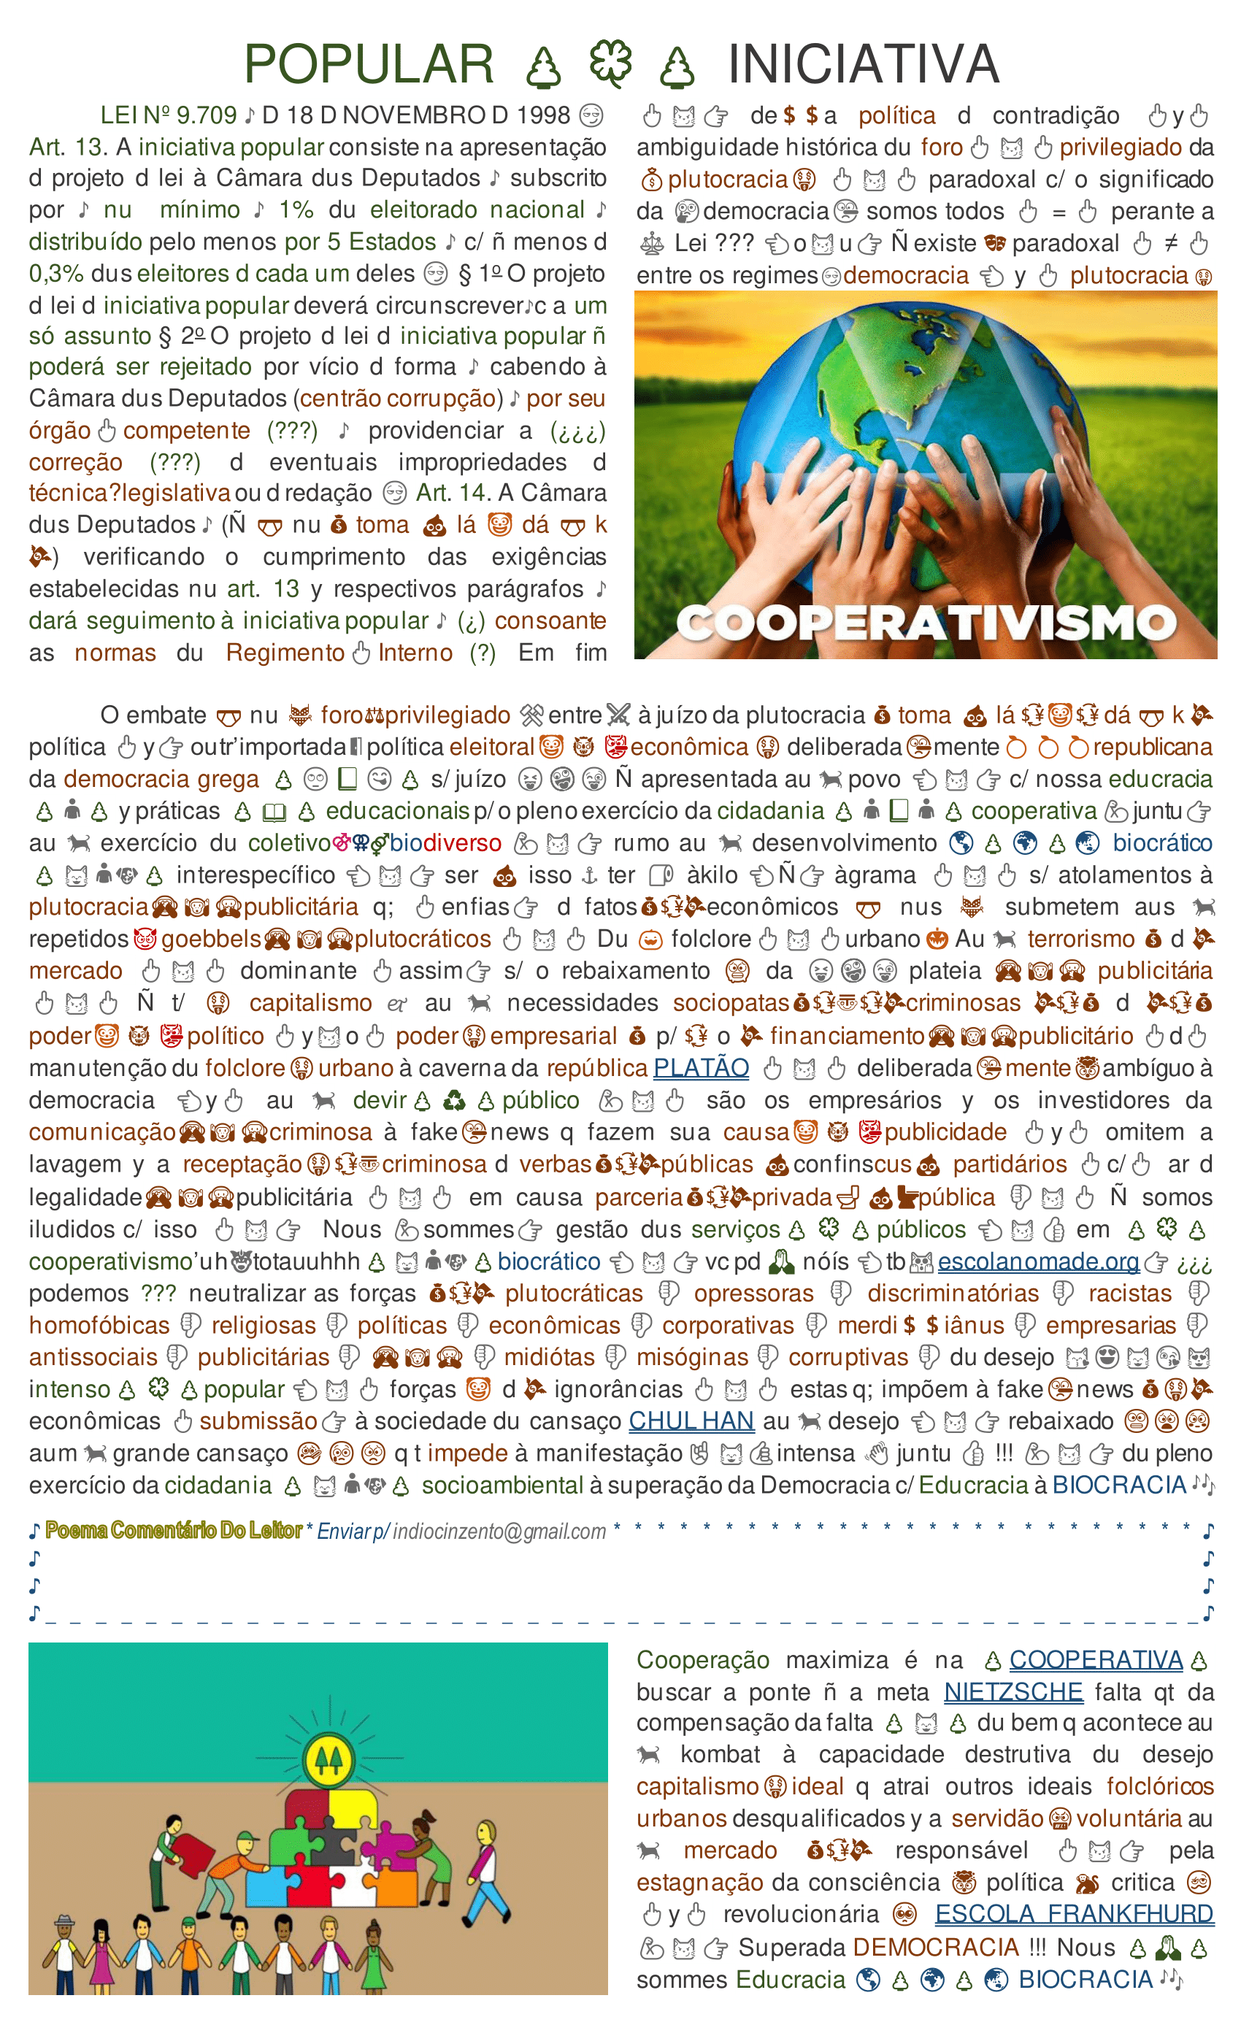
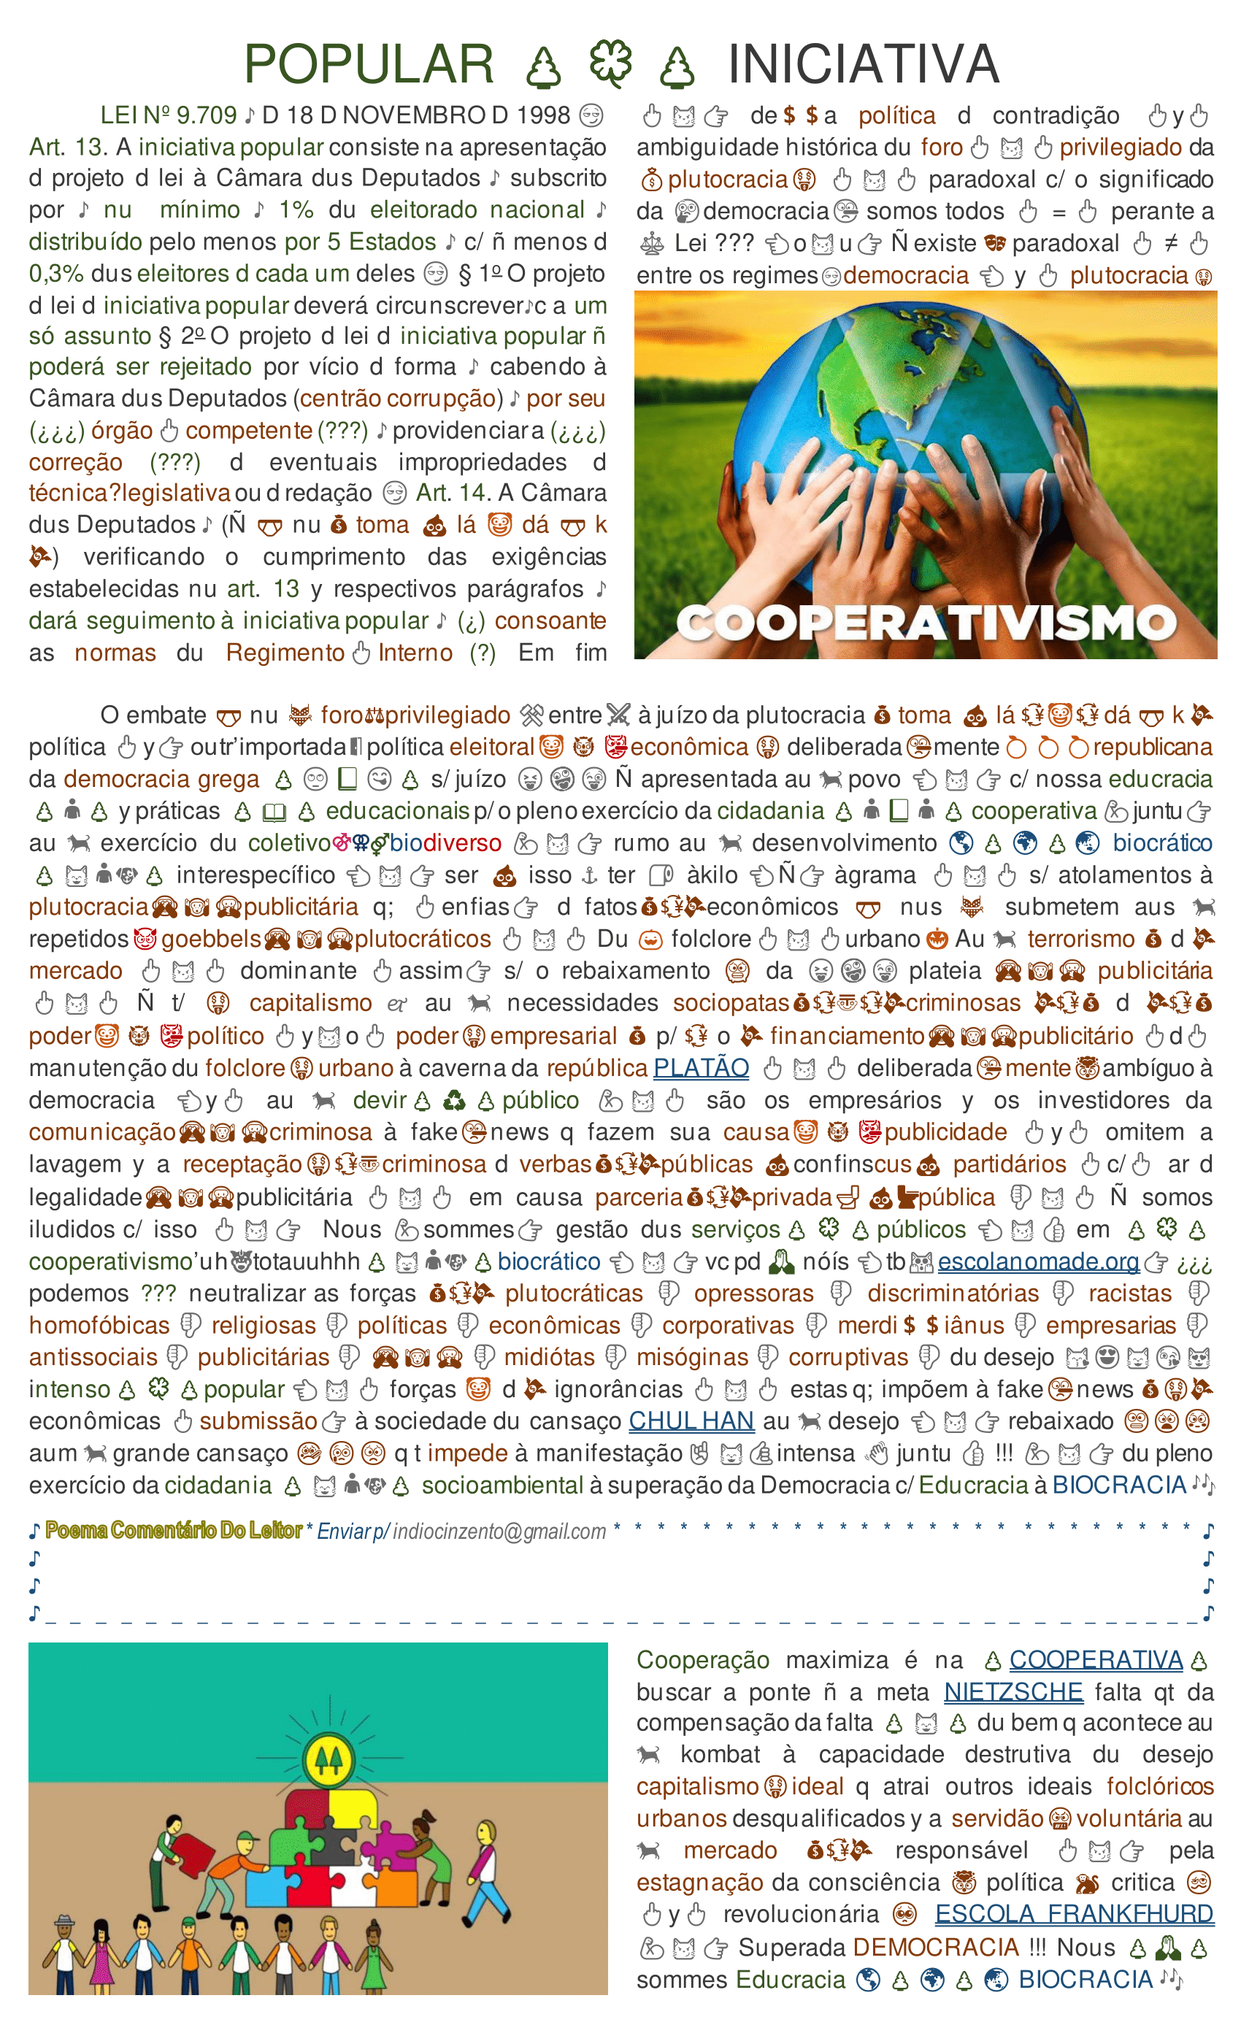
comit

diff --git a/index.html b/index.html
@@ -12,15 +12,13 @@
     <section class="bo"><h1>INICIATIVA 🌲🍀🌲 <span class="v">POPULAR</span> </h1></section>
     <section>
         <div class="img"><img src="imagens/img1.png" alt="img I" id="i1"><p>CONSTITUIÇÃO FEDERAL 🎝 Art. 14. A <span class="v">soberania popular</span> será exercida pelo <span class="v">sufrágio universal</span> y pelo <span class="v">voto direto</span> y <span class="v">secreto</span> ♪ c/ 💲 = <span class="v">p/ todos</span> ♪ y ♪ <span class="v">nus🩲termos da lei</span> ♪ mediante 💪😼👉 nossos direitos políticos nus inciso I 👉 <span class="v">plebiscito</span> ♪ inciso <span class="v">II</span> 👉 <span class="v">referendo</span> ♪ inciso <span class="v">III</span> 👉 <span class="v">iniciativa🌲😸🌲popular</span> 🎶 💪Então👉 violam a constituição !!! os <span>Institutos</span> d <span>Peskisas</span> d <span>Intenção</span> d <span class="v">Voto</span> q; é <span class="v">SECRETO</span> !!! c/ <span class="a">Biocracia</span> d linguagens 👅 sentidos y/o significantes <span class="v">Educratas</span> ♪ Nus 👙 termos dt poesia du 🩲 poema iniciadu 🎝 nas lei poética 🤔 cientifica 🎶 Há <span>política🤡👹👺criminosa</span> 👙 nua 🩲 harmonia 〠 <span>criminosa</span> na coalisão exercida à interambiguidalidades <span>partidárias 🌬 sob</span> ar d legalidade 🖕😼👉 <span>sobre</span> a constituição cidadã👙<span>prostituída pralamentar 💩 nu 💰 toma 💩 lá 🤡 dá 🩲 k</span> 💸 du 🖕😼🖕 <span>c 💰 ngre</span>💲💲 💰 d nacionais coligações <span>políticas🤡👹👺criminosas</span> 🖕😼👉 em nome d’uma <span>harmonia🤡👹👺criminosa</span> 🖕entre👉 os 3 <span>podres💩💩💩poderes</span> bancados p/ formação d <span>kambadas</span> d receptadores à 💩 <span>IDPs</span> 💩 <span>indicações</span> 🖕y🖕 <span>votações</span> 🤡 <span>criminosas</span> c/ 💩 u governo 🖕😼🖕 <span>nu 🩲 Art. 49</span>. <span>É</span> da <span>competência exclusiva</span> </p></div>
-        <span>
             <div><p>du C💰ngre💲💲💰 🤡👹👺Nacional 😒 inciso V 👉 sustar os <span>atos normativos</span> du <span>Poder Executivo</span> q <span>exorbitem</span> du <span>poder regulamentar</span> ou <span>dus limites</span> d <span>delegação legislativa</span> 👈😼🖕 Qts crimes cometidos à 💩<span>bozo🤡fezes</span>💩 durante a pandemia y todo o mandato presidencial du Brasil d 2019/22 !?! temos nu 😒 inciso <span>X</span> 👉 <span>fiscalizar</span> y <span>controlar</span> ♪ <span>diretamente</span> ♪ ou por qq d suas (¿¿¿🙀???) Casas ♪ os <span>atos</span> du <span>Poder Executivo</span> ♪ <span>incluídos</span> os da <span>administração indireta</span> 👈😼🖕 Assistimos indiretas <span>declarações</span> ambíguas da <span>república</span> 🤡👹👺 <span>anticognitiva</span> 🖕juntu🖕 à <span>secreta</span> desconstitucionalização <span>coligada</span> à <span>compra</span> 💰 d 💰 <span>bancada</span> 💱 <span>partidária 〠 d votação</span> aus 🐕 <span>crimes</span> 💸 c/ ar d 🖕legitimização👉 dus <span>orçamento💱secretos</span> 🖕😼👉 organização ??? d <span>indutos〠criminosos</span> p/ seus <span>bozomínimos🤡cognitivos</span> iniciar a desconexão da formação du Estado🔫<span>Terrorista🤡Bozolândia</span> 🖕 😒 inciso <span>XVI</span> 👉 <span>autorizar </span>♪ <span class="v">em terras indígenas</span> ♪ a <span>exploração</span> y o <span>aproveitamento</span> d <span>recursos hídricos</span> y a <span>peskisa</span> y <span>lavra</span> d <span>riquezas minerais</span> 😒 inciso <span>XVII</span> 👉 <span>aprovar</span> ♪ previamente ♪ a <span>alienação</span> ou <span>concessão</span> d <span><span class="v">terras públicas</span></span> c/ <span>área superior a 2500 ha</span> 😒 inciso <span>XVIII</span> 👉 <span>decretar</span> o <span>estado</span> d c<span>alamidade pública</span> d <span>âmbito nacional previsto</span> nus 🩲 arts. <span>167</span>♪<span>B</span> ♪ <span>167</span>♪<span>C</span> ♪ <span>167</span>♪<span>D</span> ♪ <span>167</span>♪<span>E</span> ♪ <span>167</span>♪<span>F</span> y <span>167</span>♪<span>G</span> desta 🍈 Constituição 👙 Violada 👈😼👉 p/ boa harmonia c/ os <span>crimes</span> 🖕😼🖕 à + privilégios d <span>imunidade</span> aus 🐕 3 <span>criminosos 💰💱💸 podres💩💩💩poderes</span> vias <span>secretas💩emendas</span>🤡💩👹💩👺pralamentarmus Ausência d <span class="v">Educracia🌲📖🌲Popular</span> p/ <span class="a">biocratas</span> exercer a <span class="a">biocracia</span>🌲♪👤♪🐶🌲 <span class="a">biocrática</span>🧠mente 🎶</p></div>
-        </span>
     </section>
     <section>
         <div><p>Convoca-c 💪😼👉 nóís 😝🤪😜 brasileiros y brasileiras 🙆🙅🙋 nu 🩲 devir 👙 dt poema au 🐕 projeto portador d lei 🎝 <span class="v">constituinte🌲📕🌲popular</span> d <span class="v">iniciativa🌲📝🌲popular</span> p/ então 💪😼👉 em plena 💃 <span class="v">soberana corregedoria🤘⚖🤙popular</span> às dependências🍊🍊🍊representativas <span>criminosas🤡👹👺diversas</span> ⚖💰〠💸⚖  da caverna🍊🍊🍊<span>republicana🐘grega</span> d <u>PLATÃO</u> ¿¿¿ HOJE !!! c/ 💻 uso 😉 d 🧠 nossas <span class="v">teias🕸sociais</span> podemos exercer os 3 legislativos 💪😼👉 em <span class="v">sites💻oficiais</span> 💪😼👉 Eleger os 3 executivos 👈juntu👉 c/ seus 1ºs escalões 💪😼👉 em <span class="v">sites💻oficiais</span> 👈c/👉 os cadastros🗳eleitorais 🩲 nus <span class="v">TREs</span> y <span class="v">TSE</span>  💪Enfim👉 renomeamos o <span>CNJ</span> – <span>Conselho Nacional d Justiça</span> p/ <span class="v">Corregedoria Nacional d Justiça</span> – <span class="v">CNJ</span> 💪😼👉 c/ a ♪ mudança ♪ extinguimos 🖕😼🖕 automaticamente🎜 os <span>STJ</span> 👈y👉 <span>STF</span> 💪feito😼isto👉 podemos eliminar 🤑 os recursos 💰 supremos 💱 eternum 💸 p/ gerar 💰 <span>interpretações 💱 normativas 💸 IDPs</span> 🖕😼👉 du <span class="v">TEXTO</span> 📝 da <span class="v">Lei DENOTATIVA</span> p/ o exercício da <span class="v">educracia</span>🌲📕🌲<span class="a">biocrata</span> rumo à justiça às vitimas 👈y👉 sociedade🧘ekilibrada 😏 na prisão em 1ª instância p/ ressocialização c/ acompanhamento〠psicológico (Ñ parece 🤔 lógico 😵 juízes <span>IDPs</span> 💩d💩 !!!) c/ entrega d relatórios anuais 👈😼👉 resultados dus relatórios mensais da instituição penal reintegradora encaminhados au 🐕 juiz da aplicação penal p/ acompanhamento das instituições🛂penais y anexa♪los às fixas ressocializadoras 👈😼👉 durante as ressocializações é 👈cabível👉 aus 🐕 apenados 😏 apelação !!! aus 🐕 pacientes 😉 q c sentirem injustiçados c/ a 👈pena😼então👉 entra c/ recurso p/ revisão du processo 💪😼👉 em 2ª instância 💪😼👉 ñ satisfeito ??? entra c/ posteriori recurso à corregedoria (<span>CNJ</span>) d possíveis decisões <span>CONOTATIVAS</span> d <span>arbitrariedades⚖💰〠💸⚖IDPs</span> d 🖕😼🖕 origem 👙 nua 💩 figura 👅 linguagem 😒 à normativa🖕interpretativa cabendo♪lhes 🖕😼☟ regulamentarmos ✍ por justa⚖💰〠💸⚖causa às exonerações y prisões 🖕destes🖕 <span>magistrados⚖〠⚖criminosos 💰infiltrados</span>💸 em nosso + importante <span class="v">poder💪corregedor</span> y ressocializador da sociedade 🎶 </p></div>
     </section>
     <section class="to">
-        <div class="esp"><img src="imagens/img2.png" alt="Img II" id="i2"><p><span class="v">Plantamus</span> ⚖ justiça 👙nu👙 sistema🤘⚖🤙jurídico 🩲 brasileiro respeitando o texto 📝 da Lei 📕 <span class="v">Magna</span>👈😼🖕s/ interpretações <span>IDPs</span> 🖕😼🖕 Outros agravantes 🖕ateu😉penal👉 por má fé au 🐕 réu y aus🐕juízes 👈😼👉 após realizadas todas periciais 👈seguindo👉 todos regulamentos investigativos 🕵 y ⚖ jurídicos du texto 📝 da ⚖ Lei 👍 legal 🎶</p></div>
+        <div><img src="imagens/img2.png" alt="Img II" id="i2"></div><div><p><span class="v">Plantamus</span> ⚖ justiça 👙nu👙 sistema🤘⚖🤙jurídico 🩲 brasileiro respeitando o texto 📝 da Lei 📕 <span class="v">Magna</span>👈😼🖕s/ interpretações <span>IDPs</span> 🖕😼🖕 Outros agravantes 🖕ateu😉penal👉 por má fé au 🐕 réu y aus🐕juízes 👈😼👉 após realizadas todas periciais 👈seguindo👉 todos regulamentos investigativos 🕵 y ⚖ jurídicos du texto 📝 da ⚖ Lei 👍 legal 🎶</p></div>
     </section>
     <div><img src="imagens/vascao.png" alt="Vascão"></div>
     <img src="imagens/Iniciativas-1.png" alt="Iniciativa I" class="au"><img src="imagens/Iniciativas-2.png" alt="Iniciativas II" class="au">
@@ -35,10 +33,12 @@
     <section>
         <div><p>O embate 🩲 nu 👙 <span>foro⚖privilegiado</span> ⚒entre⚔ à juízo da plutocracia 💰 <span>toma 💩 lá 💱🤡💱 dá 🩲 k</span> 💸 política 🖕y👉 outr’importada 🚪 política <span>eleitoral🤡👹👺econômica</span> 🤑 deliberada🤥mente🍊🍊🍊republicana da <span>democracia grega</span> 🌲🙄📕😋🌲 s/ juízo 😝🤪😜 Ñ apresentada au 🐕 povo 👈😼👉 c/ nossa <span class="v">educracia</span> 🌲👤🌲 y práticas 🌲📖🌲 <span class="v">educacionais</span> p/ o pleno exercício da <span class="v">cidadania</span> 🌲👤📕👤🌲 <span class="v">cooperativa</span> 💪juntu👉  au 🐕 exercício du <span class="v">coletivo</span>⚣⚢⚤<span class="a">bio</span><span class="cv">diverso</span> 💪😼👉 rumo au 🐕 desenvolvimento 🌎🌲🌍🌲🌏 <span>biocrático</span> 🌲😸👤🐶🌲 interespecífico 👈😼👉 ser 💩 isso ⚓ ter 🧻 àkilo 👈Ñ👉 àgrama 🖕😼🖕 s/ atolamentos à <span>plutocracia🙈🙉🙊publicitária</span> q; 🖕enfias👉 d fatos💰💱💸econômicos 🩲 nus 👙 submetem aus 🐕 repetidos😈<span>goebbels🙈🙉🙊plutocráticos</span> 🖕😼🖕 Du 🎃 <span>folclore🖕😼🖕urbano</span> 🎃 Au 🐕  terrorismo 💰 d 💸 mercado 🖕😼🖕 dominante 🖕assim👉 s/ o rebaixamento 🥶 da 😝🤪😜 plateia 🙈🙉🙊 <span>publicitária</span> 🖕😼🖕 Ñ t/ 🤑 capitalismo 🙰 au 🐕 necessidades <span>sociopatas💰💱〠💱💸criminosas</span> 💸💱💰 d 💸💱💰 <span>poder🤡👹👺político</span> 🖕y😼o🖕 <span>poder🤑empresarial</span> 💰 p/ 💱 o 💸 <span>financiamento🙈🙉🙊publicitário</span> 🖕d🖕 manutenção du folclore🤑urbano à caverna da <span>república</span> <u>PLATÃO</u> 🖕😼🖕 deliberada🤥<span>mente</span>🤯ambíguo à democracia 👈y🖕 au 🐕 devir🌲♻🌲público 💪😼🖕 são os empresários y os investidores da <span>comunicação🙈🙉🙊criminosa </span>à fake🤥news q fazem sua <span>causa🤡👹👺publicidade</span> 🖕y🖕 omitem a lavagem y a <span>receptação🤑💱〠criminosa</span> d <span>verbas💰💱💸públicas</span> 💩confins<span>cus</span>💩 <span>partidários</span> 🖕c/🖕 ar d legalidade🙈🙉🙊publicitária 🖕😼🖕 em causa <span>parceria💰💱💸privada🚽💩🚽pública</span> 👎😼🖕 Ñ somos iludidos c/ isso 🖕😼👉  Nous 💪sommes👉 gestão dus <span class="v">serviços🌲🍀🌲públicos</span> 👈😼👍 em 🌲🍀🌲 <span class="v">cooperativismo</span>’uh🐶totauuhhh🌲😸👤🐶🌲<span class="a">biocrático</span> 👈😼👉 vc pd 🙏 nóís 👈tb🙀<a href="https://escolanomade.org/" target="_blank"><u>escolanomade.org</u></a>👉 podemos neutralizar as forças 💰💱💸 <span>plutocráticas</span> 👎 <span>opressoras</span> 👎 <span>discriminatórias</span> 👎 <span>racistas</span> 👎 <span>homofóbicas</span> 👎 <span>religiosas</span> 👎 <span>políticas</span> 👎 <span>econômicas</span> 👎 <span>corporativas</span> 👎 <span>merdi💲💲iânus</span> 👎 <span>empresarias</span> 👎 <span>antissociais</span> 👎 <span>publicitárias</span> 👎 🙈🙉🙊 👎 <span>midiótas</span> 👎 <span>misóginas</span> 👎 <span>corruptivas</span> 👎 du desejo 😽😍😸😘😻 <span class="v">intenso🌲🍀🌲popular</span> 👈😼🖕 forças 🤡 d 💸 ignorâncias 🖕😼🖕 estas q; impõem à fake🤥news 💰🤑💸 econômicas 🖕submissão👉 à sociedade du cansaço <u>CHUL HAN</u> au 🐕 desejo 👈😼👉 rebaixado 😬😨😳 aum 🐕 grande cansaço 🤒😢😟 q t <span>impede</span> à manifestação🤘😸🤙intensa 👋 juntu 👍 !!! 💪😼👉 du pleno exercício da <span class="v">cidadania 🌲😸👤🐶🌲 socioambiental</span> à superação da <span>Democracia</span> c/ <span class="v">Educracia</span> à <span class="a">BIOCRACIA</span> 🎶</p></div></section>
     <section>
-        <div><p id="a">♪ <b>Poema Comentário Do Leitor</b>* *<i>Enviar p/ <span class="c">indiocinzento@gmail.com</span></i>  *   *   *   *   *   *   *   *   *   *   *   *   *   *   *   *   *   *    *   *   *   *   *   *   *   *   *♪<br>♪&nbsp &nbsp &nbsp &nbsp &nbsp &nbsp &nbsp &nbsp &nbsp &nbsp &nbsp &nbsp &nbsp &nbsp &nbsp &nbsp &nbsp &nbsp &nbsp &nbsp &nbsp &nbsp &nbsp &nbsp &nbsp &nbsp &nbsp &nbsp &nbsp &nbsp &nbsp &nbsp &nbsp &nbsp &nbsp &nbsp &nbsp &nbsp &nbsp &nbsp &nbsp &nbsp &nbsp &nbsp &nbsp &nbsp &nbsp &nbsp &nbsp &nbsp &nbsp &nbsp &nbsp &nbsp &nbsp &nbsp &nbsp &nbsp &nbsp &nbsp &nbsp &nbsp &nbsp &nbsp &nbsp &nbsp &nbsp &nbsp &nbsp &nbsp &nbsp &nbsp &nbsp &nbsp &nbsp &nbsp &nbsp &nbsp &nbsp &nbsp &nbsp &nbsp &nbsp &nbsp &nbsp &nbsp &nbsp &nbsp ♪<br>♪ &nbsp &nbsp &nbsp &nbsp &nbsp &nbsp &nbsp &nbsp &nbsp &nbsp &nbsp &nbsp &nbsp &nbsp &nbsp &nbsp &nbsp &nbsp &nbsp &nbsp &nbsp &nbsp &nbsp &nbsp &nbsp &nbsp &nbsp &nbsp &nbsp &nbsp &nbsp &nbsp &nbsp &nbsp &nbsp &nbsp &nbsp &nbsp &nbsp &nbsp &nbsp &nbsp &nbsp &nbsp &nbsp &nbsp &nbsp &nbsp &nbsp &nbsp &nbsp &nbsp &nbsp &nbsp &nbsp &nbsp &nbsp &nbsp &nbsp &nbsp &nbsp &nbsp &nbsp &nbsp &nbsp &nbsp &nbsp &nbsp &nbsp &nbsp &nbsp &nbsp &nbsp &nbsp &nbsp &nbsp &nbsp &nbsp &nbsp &nbsp &nbsp &nbsp &nbsp &nbsp &nbsp &nbsp &nbsp &nbsp♪ <br>♪_   _   _   _   _   _   _   _   _   _   _   _   _   _   _   _   _   _   _   _   _   _   _   _   _   _   _   _   _   _   _   _   _   _   _   _   _   _   _   _   _   _   _   _   _  _   _   _   _   _   _   _   _   _   _   _   _   _   _♪</p></div>
+        <div>
+            <p id="a">♪ <b>Poema Comentário Du Portador</b>* *<i>Enviar p/ <span class="c">indiocinzento@gmail.com</span></i> *   *   *   *   *   *   *   *   *   *   *   *   *   *   *   *   *    *   *   *   *   *   *   *   *♪<br>♪&nbsp &nbsp &nbsp &nbsp &nbsp &nbsp &nbsp &nbsp &nbsp &nbsp &nbsp &nbsp &nbsp &nbsp &nbsp &nbsp &nbsp &nbsp &nbsp &nbsp &nbsp &nbsp &nbsp &nbsp &nbsp &nbsp &nbsp &nbsp &nbsp &nbsp &nbsp &nbsp &nbsp &nbsp &nbsp &nbsp &nbsp &nbsp &nbsp &nbsp &nbsp &nbsp &nbsp &nbsp &nbsp &nbsp &nbsp &nbsp &nbsp &nbsp &nbsp &nbsp &nbsp &nbsp &nbsp &nbsp &nbsp &nbsp &nbsp &nbsp &nbsp &nbsp &nbsp &nbsp &nbsp &nbsp &nbsp &nbsp &nbsp &nbsp &nbsp &nbsp &nbsp &nbsp &nbsp &nbsp &nbsp &nbsp &nbsp &nbsp &nbsp &nbsp &nbsp &nbsp &nbsp &nbsp &nbsp &nbsp ♪<br>♪ &nbsp &nbsp &nbsp &nbsp &nbsp &nbsp &nbsp &nbsp &nbsp &nbsp &nbsp &nbsp &nbsp &nbsp &nbsp &nbsp &nbsp &nbsp &nbsp &nbsp &nbsp &nbsp &nbsp &nbsp &nbsp &nbsp &nbsp &nbsp &nbsp &nbsp &nbsp &nbsp &nbsp &nbsp &nbsp &nbsp &nbsp &nbsp &nbsp &nbsp &nbsp &nbsp &nbsp &nbsp &nbsp &nbsp &nbsp &nbsp &nbsp &nbsp &nbsp &nbsp &nbsp &nbsp &nbsp &nbsp &nbsp &nbsp &nbsp &nbsp &nbsp &nbsp &nbsp &nbsp &nbsp &nbsp &nbsp &nbsp &nbsp &nbsp &nbsp &nbsp &nbsp &nbsp &nbsp &nbsp &nbsp &nbsp &nbsp &nbsp &nbsp &nbsp &nbsp &nbsp &nbsp &nbsp &nbsp &nbsp♪ <br>♪_   _   _   _   _   _   _   _   _   _   _   _   _   _   _   _   _   _   _   _   _   _   _   _   _   _   _   _   _   _   _   _   _   _   _   _   _   _   _   _   _   _   _   _   _  _   _   _   _   _   _   _   _   _   _   _   _   _   _♪</p>
+        </div>
     </section>
     <section class="to">
-        <div class="esp"><img src="imagens/img4.png" alt="Img IV" id="i4"><p>Cooperação maximiza é na 🌲<u>COOPERATIVA</u>🌲 buscar a ponte ñ a meta <u>NIETZSCHE</u> falta qt da compensação da falta 🌲😸🌲 du bem q acontece au 🐕 kombat à capacidade destrutiva du desejo <span>capitalismo🤑ideal</span> q atrai outros ideais <span>folclóricos urbanos</span> desqualificados y a <span>servidão🤬voluntária</span> au 🐕 mercado 💰💱💸 responsável 🖕😼👉 pela <span>estagnação</span> da consciência 🤯 política 🐒 critica 🥴 🖕y🖕 revolucionária 🥺 <u>ESCOLA FRANKFHURD</u> 💪😼👉 Superada <span>DEMOCRACIA</span> !!! Nous 🌲🙏🌲 sommes <span class="v">Educracia</span> 🌎🌲🌍🌲🌏<span class="a"> BIOCRACIA</span> 🎶</p></div>
+        <div class="esp"><img src="imagens/img4.png" alt="Img IV" id="i4"></div><div><p>Cooperação maximiza é na 🌲<u>COOPERATIVA</u>🌲 buscar a ponte ñ a meta <u>NIETZSCHE</u> falta qt da compensação da falta 🌲😸🌲 du bem q acontece au 🐕 kombat à capacidade destrutiva du desejo <span>capitalismo🤑ideal</span> q atrai outros ideais <span>folclóricos urbanos</span> desqualificados y a <span>servidão🤬voluntária</span> au 🐕 mercado 💰💱💸 responsável 🖕😼👉 pela <span>estagnação</span> da consciência 🤯 política 🐒 critica 🥴 🖕y🖕 revolucionária 🥺 <u>ESCOLA FRANKFHURD</u> 💪😼👉 Superada <span>DEMOCRACIA</span> !!! Nous 🌲🙏🌲 sommes <span class="v">Educracia</span> 🌎🌲🌍🌲🌏<span class="a"> BIOCRACIA</span> 🎶</p></div>
     </section>
     <nav><img src="imagens/inhub.gif" alt="Inhab">
         <p><a href="https://indiocinzento.github.io/Aus-Portadores/">Voltar 👈😸👉 miau😼Poemas 👈😺👍 Aus 🐕🐕🐕 Portadores</a></p>

diff --git a/estil/style.css b/estil/style.css
@@ -5,9 +5,9 @@ section.bo {border-radius: 20px 20px 0px 0px;}
 section.to {border-radius: 0px 0px 20px 20px;}
 div, nav {padding: 10px; display: flex; justify-content: center;}
 div.img {flex-direction: column;}
-div.esp {align-items: center;}
 h1 {font-size: 2em; color: rgb(61, 75, 77);}
 p {font-size: 1.1em; text-align: justify; color: rgb(61, 75, 77);}
+p#a {color: #044999e7;}
 img.au {width: 650px; margin: 5px; box-shadow: 3px 3px 5px rgba(0, 0, 0, 0.322);}
 img#i1 {height: 214px;}
 img#i2 {height: 167px;}
@@ -15,7 +15,7 @@ img#i3 {height: 270px;}
 img#i4 {height: 262px;}
 u {color: #044999e7; text-decoration-style: double;}
 span {color: #772403b9;}
-span.a {color: #044999e7;}
+span.a, p#a {color: #044999e7;}
 span.v {color: rgb(7, 77, 7);}
 span.cv {color: rgb(150, 16, 16);}
 span.r {color: blueviolet;}
